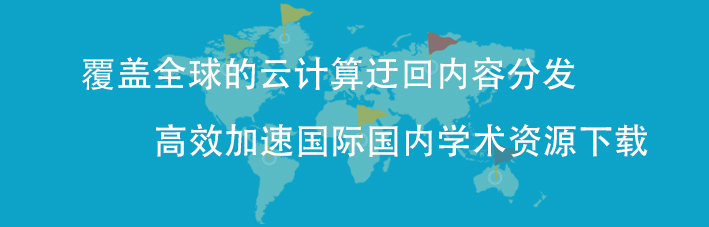
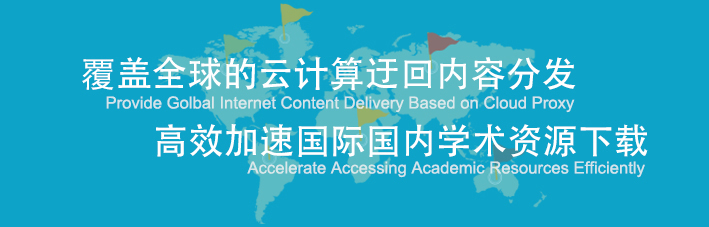
update

Changed region(s): [[0.1241, 0.4009, 0.8068, 0.4934], [0.3413, 0.7093, 0.9309, 0.7709]]

diff --git a/templates/index.html b/templates/index.html
@@ -44,12 +44,13 @@
             <div class="notice">
                 <table class="table">
                     <thead >
-                        <tr><th style="padding: 0px 5px 5px 5px">站长通知</th></tr>
+                        <tr><th style="padding: 0px 5px 5px 5px">站长通知 / BULLETIN</th></tr>
                     </thead>
                     <tbody >
-                        <tr><td style="padding: 2px"><strong>[置顶]</strong> 专注学术资源下载，杜绝敏感内容。因带宽资源有限，仅象征性收费。<p>2017.01.01</p></td></tr>
-						<tr><td style="padding: 2px">公告：因系统升级，代理服务暂停，明日恢复。<p>2017.4.11</p></td></tr>
-						<tr><td style="padding: 2px">公告：机房服务器IP地址迁移，网站访问和服务受到影响，预计1个工作日后恢复。<p>2017.3.17</p></td></tr>
+                        <tr><td style="padding: 2px"><strong>[置顶]</strong> 活动：2017年回馈老客户，购买服务全场6折<p>2016.01.01</p></td></tr>
+						<tr><td style="padding: 2px">公告：支付宝即时到账服务续约中，在线支付功能受到影响，预计1个工作日后恢复。<p>2016.12.12</p></td></tr>
+                        <tr><td style="padding: 2px">公告：11月28日服务器机房DNS解析故障 影响服务使用及支付功能 现已维修完成。<p>2016.11.28</p></td></tr>
+
                     </tbody>
                 </table>
             </div>
@@ -62,9 +63,9 @@
             <img class="img-center" src="/static/imgs/intro1.png">
             <div class="intro-center container">
                 <div class="row">
-                    <div class="col-xs-4"><strong>后台管理 快捷自助</strong><p>网站查看账户详情一目了然<br>全天自主充值购买即时生效</p></div>
-                    <div class="col-xs-4"><strong>百兆带宽 高速稳定</strong><p>国内国外双级代理<br>全方位加速资源下载</p></div>
-                    <div class="col-xs-4"><strong>设置简单 支持广泛</strong><p>支持各大主流浏览器<br>手机电脑平板，便捷使用</p></div>
+                    <div class="col-xs-4"><strong>后台管理 快捷自助</strong><p style="color:#aaa; margin-top: -10px">Self-Help Management</p><p>网站查看账户详情一目了然<br>全天自主充值购买即时生效</p></div>
+                    <div class="col-xs-4"><strong>百兆带宽 高速稳定</strong><p style="color:#aaa; margin-top: -10px">Fast and Stable</p><p>国内国外双级代理<br>全方位加速资源下载</p></div>
+                    <div class="col-xs-4"><strong>设置简单 支持广泛</strong><p style="color:#aaa; margin-top: -10px">Easy Configuration</p><p>支持各大主流浏览器<br>手机电脑平板，便捷使用</p></div>
                 </div>
 
             </div>
@@ -76,7 +77,7 @@
                     <div class="col-xs-1"></div>
                     <img class="img-center col-xs-5" src="/static/imgs/intro2.jpg">
                     <div class="col-xs-5 " style="margin-top: 10px; ">
-                        <strong>清云加速器</strong>
+                        <strong>清云加速器</strong><p style="color:#aaa; margin-top: -10px">ScholarCloud Accelerator</p>
                         <p>清云加速器是一款专业的定制化加速服务，支持加速访问国内、国外各大学术网站，加速学术资源下载。通过优质的带宽线路，实时的负载均衡，有效的加密算法，保障您访问学术资源的便捷和安全。无论您使用什么网络，我们均能最大化地提升您的下载效率。
                         </p>
                     </div>
@@ -88,9 +89,8 @@
             <div class="intro-detail container">
                 <div class="intro-right row">
                     <div class="col-xs-1"></div>
-
                     <div class="col-xs-5 " style="margin-top: 10px; ">
-                        <strong>地区支持，全网络覆盖</strong>
+                        <strong>地区支持，全网络覆盖</strong><p style="color:#aaa; margin-top: -10px">Widely Supported, Covering all ISPs</p>
                         <p>清云加速全面支持教育网、电信网、移动网等多种不同网络服务提供商的访问。<br>
                             国内国外双级服务器，无论你身在何处，均可有效解决资源无法访问的地域问题。
                         </p>
@@ -105,7 +105,7 @@
                     <div class="col-xs-1"></div>
                     <img class="img-center col-xs-5" src="/static/imgs/intro4.jpg">
                     <div class="col-xs-5 " style="margin-top: 0px; ">
-                        <strong>自助管理 实时开通 简单易用</strong>
+                        <strong>自助管理 实时开通 简单易用</strong><p style="color:#aaa; margin-top: -10px">Real-time Response, Supermatic, User Friendly</p>
                         <p>清云加速的产品订购流程简单，支持支付宝在线支付，按流量计费，实时到账实时开通。<br>
                             配置简单，浏览器插件、自动配置脚本一键自动化配置，方便您的使用。
                         </p>

diff --git a/templates/base.html b/templates/base.html
@@ -61,9 +61,9 @@
 
         <div id="navbar" class="navbar-collapse collapse">
             <ul class="nav navbar-nav navbar-middle" style="width: 47%">
-                <li {% if page_name == "homepage" %}class="active"{% endif %} style="width: 33%"><a href="/homepage">账户管理</a></li>
-                <li {% if page_name == "guide" %}class="active"{% endif %} style="width: 33%"><a href="/guide">配置说明</a></li>
-                <li {% if page_name == "account_types" %}class="active"{% endif %} style="width: 33%"><a href="/account_types">账户类型</a></li>
+                <li {% if page_name == "homepage" %}class="active"{% endif %} style="width: 33%"><a href="/homepage">账户管理<p style="color: #aaa; font-size: 14px; margin-top: 0px; margin-bottom: -14px">Account Management</p></a></li>
+                <li {% if page_name == "guide" %}class="active"{% endif %} style="width: 33%"><a href="/guide">配置说明<p style="color: #aaa; font-size: 14px; margin-top: 0px; margin-bottom: -14px">Configuration</p></a></li>
+                <li {% if page_name == "account_types" %}class="active"{% endif %} style="width: 33%"><a href="/account_types">账户类型<p style="color: #aaa; font-size: 14px; margin-top: 0px; margin-bottom: -14px">Account Type</p></a></li>
 {#                <li style="width: 50%"><a target="_blank" href="http://thucloud.com">云计算教学实验平台</a></li>#}
             </ul>
 
@@ -75,14 +75,14 @@
                         <span class="caret"></span>
                       </a>
                       <ul class="dropdown-menu" aria-labelledby="drop3">
-                          <li ><a href="/orders">查看订单</a></li>
-                          <li ><a href="/logout">登出</a></li>
+                          <li ><a href="/orders">查看订单<p style="color: #aaa; font-size: 14px; margin-top: 0px; margin-bottom: -5px">Orders</p></a></li>
+                          <li ><a href="/logout">登出<p style="color: #aaa; font-size: 14px; margin-top: 0px; margin-bottom: -5px">Log out</p></a></li>
                       </ul>
                     </li>
                 {% else %}
                     <li style="width: 20%"><a></a></li>
-                    <li style="width: 40%"><a href="/show_login">登录</a></li>
-                    <li style="width: 40%"><a href="/register">注册</a></li>
+                    <li style="width: 40%"><a href="/show_login">登录<p style="color: #aaa; font-size: 14px; margin-top: 0px; margin-bottom: -14px">Sign In</p></a></li>
+                    <li style="width: 40%"><a href="/register">注册<p style="color: #aaa; font-size: 14px; margin-top: 0px; margin-bottom: -14px">Sign Up</p></a></li>
                 {% endif %}
             </ul>
         </div><!--/.nav-collapse -->

diff --git a/templates/register.html b/templates/register.html
@@ -9,7 +9,7 @@
     {% endblock %}
 
 {% block content %}
-    <div class="col-sm-4 col-md-3 col-sm-offset-4 col-xs-6 col-xs-offset-3">
+    <div class="col-sm-4 col-md-4 col-sm-offset-4 col-xs-6 col-xs-offset-3">
         {% if errors %}
             <ul>
                 {% for error in errors %}
@@ -21,19 +21,20 @@
         <form action="/register/" id="user-info-form" method="post" align="center">
             {% csrf_token %}
             <div class="form-group">
-                <input type="text" name="username" class="form-control" id="username" placeholder="用户名" required="">
+                
+                <input type="text" name="username" class="form-control" id="username" placeholder="用户名/Username" required="">
                 <label class="error" id="user-name-label" for="username"></label>
             </div>
             <div class="form-group">
-                <input type="password" name="password" class="form-control" id="password" placeholder="密码">
+                <input type="password" name="password" class="form-control" id="password" placeholder="密码/Password">
             </div>
             <div class="form-group">
-                <input type="password" name="confirmPassword" class="form-control" id="confirmPassword" placeholder="重复密码">
+                <input type="password" name="confirmPassword" class="form-control" id="confirmPassword" placeholder="重复密码/Repeat Password">
             </div>
             <div class="form-group">
-                <input type="email" name="email" class="form-control" id="email" placeholder="邮箱">
+                <input type="email" name="email" class="form-control" id="email" placeholder="邮箱/Email">
             </div>
-            <button class="btn btn-info btn-block">注册</button>
+            <button class="btn btn-info btn-block">注册/Sign Up</button>
         </form>
     </div>
 {% endblock %}

diff --git a/thuproxy/proxy_account_views.py b/thuproxy/proxy_account_views.py
@@ -434,4 +434,3 @@ def downgrade(request):
         proxy_account.save()
     downgrade_port(proxy_account.port, proxy_account.type)
     return render_to_response('downgrade_success.html', locals(), context_instance=RequestContext(request))
-萨斯打发士大夫玩儿全网通4

diff --git a/djangowebsite/settings.py b/djangowebsite/settings.py
@@ -24,7 +24,7 @@ BASE_DIR = os.path.dirname(os.path.dirname(os.path.abspath(__file__)))
 SECRET_KEY = 'ep=o3o4rv%@(&h9j*pb^$gcva3z7_346($sqoygradd%y&&nq+'
 
 # SECURITY WARNING: don't run with debug turned on in production!
-DEBUG = True
+DEBUG = False
 
 ALLOWED_HOSTS = ['*']
 
